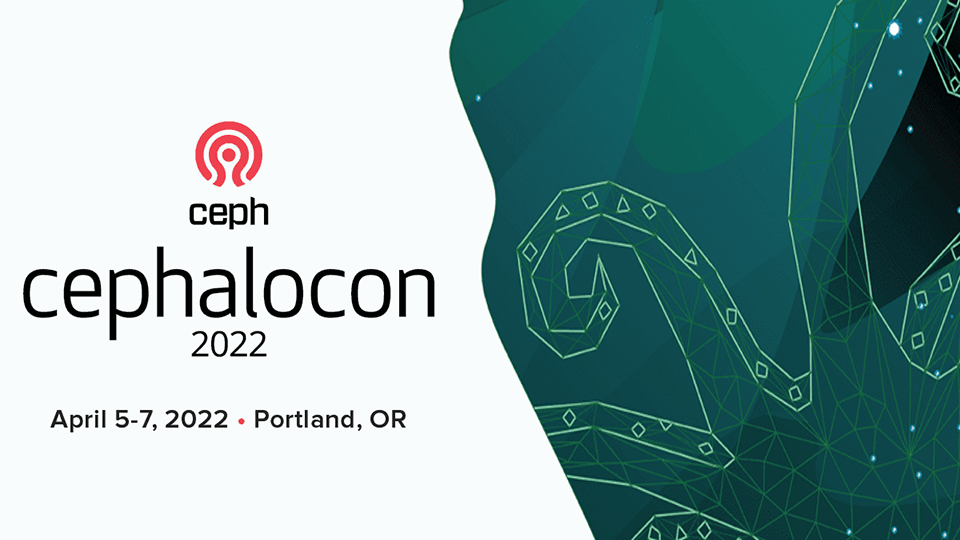
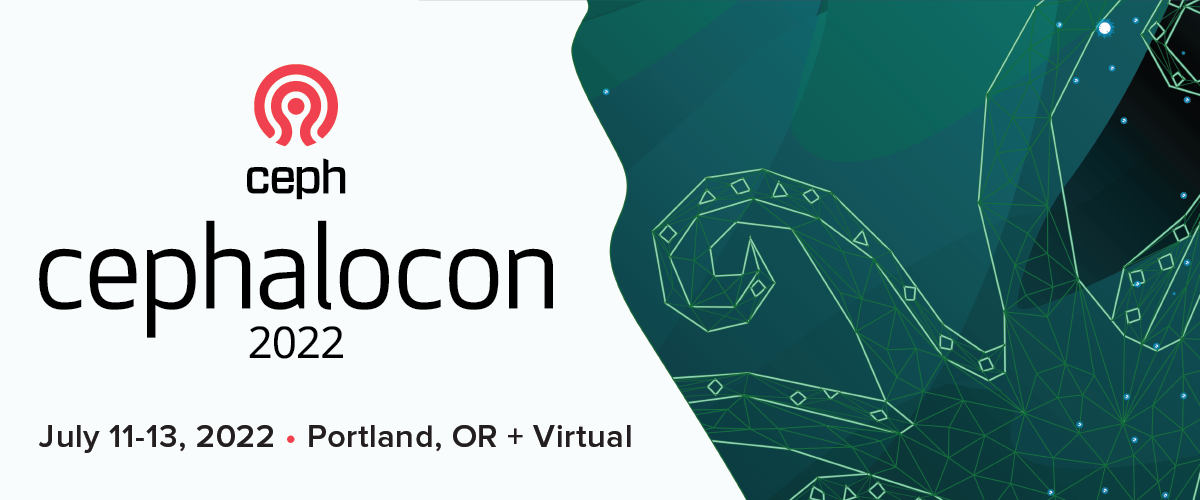
Update Cephalocon event page with new date

diff --git a/src/en/community/events/2022/cephalocon-portland/index.md b/src/en/community/events/2022/cephalocon-portland/index.md
@@ -1,7 +1,7 @@
 ---
 title: Cephalocon 2022
-date: 2022-04-05
-end: 2022-04-07
+date: 2022-07-11
+end: 2022-07-13
 location: Portland, Oregon + Virtual
 venue: Hyatt Regency 375 NE Holladay St, Portland, OR 97232
 image: "/assets/bitmaps/cephalocon-2022-hero.png"
@@ -27,14 +27,8 @@ tags:
   - cephalocon
 ---
 
-We can’t wait to gather the Ceph community again in person, and we’re sure you feel the same way. We had hoped to do this April 5-7, but unfortunately, given the current COVID-19 pandemic wave, we feel that this may not be the right time to gather in person.
-
-We want to ensure a safe experience onsite for participants, and make sure as many people that want to join us feel safe in doing so. Thus, we’ve made the difficult decision to postpone Cephalocon 2022 until later this year. We are reviewing date options with the venue and our partners, and will share the new event dates shortly. In the meantime, we are excited to announce the schedule is live!
-
-Cephalocon is the premier yearly event that brings together the global community of operators, developers, and researchers for Ceph, the open source distributed storage system designed to provide excellent performance, reliability, and scalability. Join new and existing community members from around the world to learn more about Ceph and the future of the project from the developers writing the code and the operators deploying it at scale.
-
-- **Developer Summit**: TBD
-- **Cephalocon**: TBD
+- **Developer Summit**: July 11th
+- **Cephalocon**: July 12-13th
 - **CFP opens**: Friday, November 5th
 - **CFP closes**: Sunday, December 19th at 11:59 PST
 
